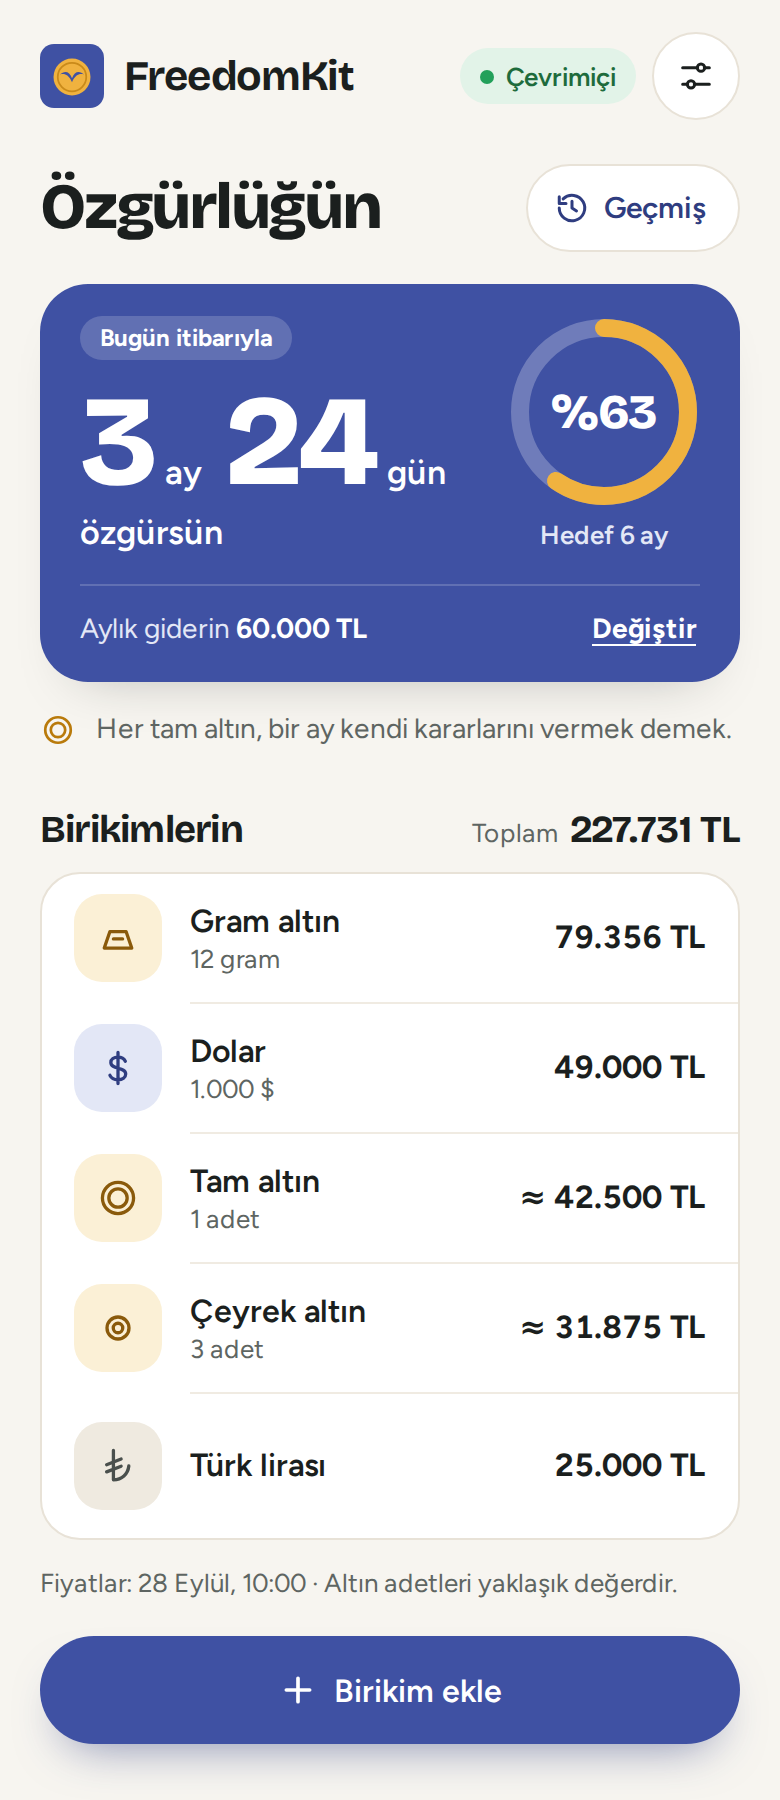
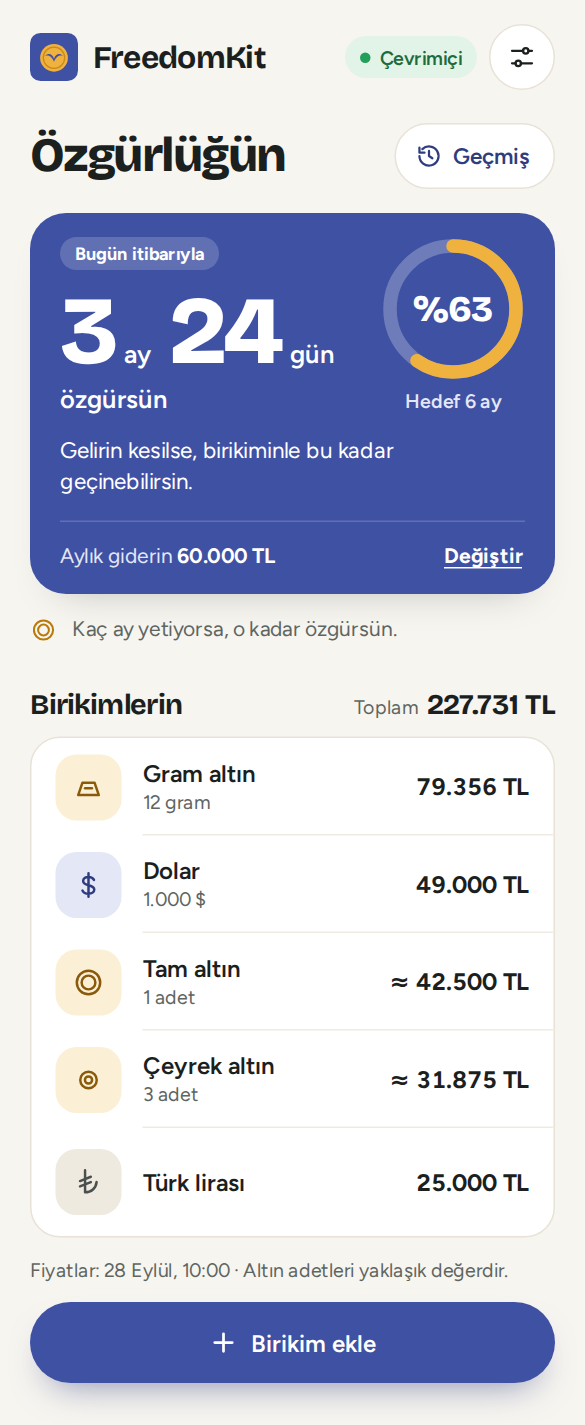
Say what FreedomKit does: how many months the savings last
Plan 08's texts: "Birikimin kaç ay yeter?" leads, and freedom is tied in once, "Kaç ay yetiyorsa, o kadar
özgürsün." The welcome gains a worked example (180.000 TL ÷ 45.000 TL = 4 ay) read aloud as one sum, the home
card says what its duration means, the goal asks "Birikimin kaç ay yetsin?", and the description in the manifest
and the page follows. The old second sentence promised a month per tam altın, untrue for a typed expense.

diff --git a/docs/design/freedomkit/html/05-ilk-acilis.html b/docs/design/freedomkit/html/05-ilk-acilis.html
@@ -1,0 +1,77 @@
+<!doctype html>
+<html lang="tr">
+<head>
+<meta charset="utf-8">
+<title>FreedomKit — İlk açılış</title>
+</head>
+<body>
+<x-dc>
+<helmet>
+<!-- Fontlar: Bricolage Grotesque + Figtree -->
+<style>
+body{margin:0;background:#F7F5F0}
+a{color:#2F3D80}a:hover{color:#3F51A3}
+</style>
+</helmet>
+<div style="width: 390px; height: 970px; box-sizing: border-box; position: relative; overflow: hidden; display: flex; flex-direction: column; background: #F7F5F0; color: #1B1F1E; font-family: 'Figtree', system-ui, sans-serif">
+
+<header style="padding: 14px 20px 0; height: 62px; box-sizing: border-box; display: flex; align-items: center; justify-content: space-between">
+<div style="display: flex; align-items: center; gap: 10px"><svg width="32" height="32" viewBox="0 0 512 512" aria-hidden="true"><rect width="512" height="512" rx="112" fill="#3F51A3"></rect><circle cx="256" cy="264" r="148" fill="#F0B23F"></circle><circle cx="256" cy="264" r="114" fill="none" stroke="#C98A1A" stroke-width="14"></circle><path d="M160 244C194 212 236 216 256 274C276 216 318 212 352 244C318 234 284 242 256 306C228 242 194 234 160 244Z" fill="#3F51A3"></path></svg><span style="font-family: 'Bricolage Grotesque', sans-serif; font-size: 21px; font-weight: 700; letter-spacing: -0.02em">FreedomKit</span></div>
+<button aria-label="Ayarlar" style="width: 44px; height: 44px; border-radius: 999px; border: 1px solid #E8E2D7; background: #FFFFFF; display: flex; align-items: center; justify-content: center; padding: 0; cursor: pointer"><svg width="20" height="20" viewBox="0 0 24 24" aria-hidden="true"><path d="M4 7h9M17 7h3M4 17h3M11 17h9" fill="none" stroke="#1B1F1E" stroke-width="1.8" stroke-linecap="round"></path><circle cx="15" cy="7" r="2.2" fill="none" stroke="#1B1F1E" stroke-width="1.8"></circle><circle cx="9" cy="17" r="2.2" fill="none" stroke="#1B1F1E" stroke-width="1.8"></circle></svg></button>
+</header>
+
+<h1 style="margin: 18px 20px 0; font-family: 'Bricolage Grotesque', sans-serif; font-size: 32px; line-height: 1.05; letter-spacing: -0.035em; font-weight: 800">Birikimin kaç ay yeter?</h1>
+<p style="margin: 12px 20px 0; font-size: 16px; line-height: 1.5">FreedomKit, gelirin kesilse birikiminle kaç ay geçinebileceğini gösterir: altınını, dövizini ve TL'ni güncel fiyatla toplar, aylık giderine böler.</p>
+
+<section aria-label="Örnek hesap" style="margin: 16px 20px 0; border-radius: 20px; border: 1px solid #E8E2D7; background: #FFFFFF; overflow: hidden">
+<div style="padding: 14px 16px 12px; display: flex; flex-direction: column; gap: 8px">
+<span style="font-size: 13px; font-weight: 700; color: #5E6562">Örnek</span>
+<div style="display: flex; align-items: baseline; justify-content: space-between; gap: 12px">
+<span style="font-size: 15px; color: #1B1F1E; font-weight: 500">Birikimin</span>
+<span style="font-family: 'Bricolage Grotesque', sans-serif; font-size: 19px; font-weight: 700; letter-spacing: -0.02em; color: #1B1F1E; font-variant-numeric: tabular-nums; white-space: nowrap">180.000 TL</span>
+</div>
+<div style="display: flex; align-items: baseline; justify-content: space-between; gap: 12px">
+<span style="font-size: 15px; color: #1B1F1E; font-weight: 500">Aylık giderin</span>
+<span style="font-family: 'Bricolage Grotesque', sans-serif; font-size: 19px; font-weight: 700; letter-spacing: -0.02em; color: #1B1F1E; font-variant-numeric: tabular-nums; white-space: nowrap">÷ 45.000 TL</span>
+</div>
+<div style="margin: 2px 0; border-top: 1.5px dashed #E8E2D7"></div>
+<div style="display: flex; align-items: baseline; justify-content: space-between; gap: 12px">
+<span style="font-size: 15px; color: #1B1F1E; font-weight: 700">Kaç ay yeter?</span>
+<span style="font-family: 'Bricolage Grotesque', sans-serif; font-size: 26px; font-weight: 800; letter-spacing: -0.02em; color: #2F3D80; font-variant-numeric: tabular-nums; white-space: nowrap">4 ay</span>
+</div>
+</div>
+<p style="margin: 0; padding: 12px 16px; background: #E3E7F6; color: #2F3D80; font-size: 15px; font-weight: 600; display: flex; align-items: center; gap: 10px"><svg style="flex-shrink: 0" width="18" height="18" viewBox="0 0 24 24" aria-hidden="true"><circle cx="12" cy="12" r="8.5" fill="none" stroke="#B97A0B" stroke-width="1.8"></circle><circle cx="12" cy="12" r="4.8" fill="none" stroke="#B97A0B" stroke-width="1.8"></circle></svg>Kaç ay yetiyorsa, o kadar özgürsün.</p>
+</section>
+<p style="margin: 12px 20px 0; font-size: 15px; line-height: 1.5; color: #5E6562">Tutarların bu cihazdan hiçbir yere gitmez.</p>
+
+<fieldset style="margin: 26px 20px 0; padding: 0; border: 0; display: flex; flex-direction: column; gap: 10px; min-width: 0">
+<legend style="padding: 0; margin: 0 0 10px; font-family: 'Bricolage Grotesque', sans-serif; font-size: 19px; font-weight: 700; letter-spacing: -0.02em">Aylık giderin</legend>
+<div style="padding: 14px; border-radius: 16px; border: 2px solid #3F51A3; background: #E3E7F6; display: flex; flex-direction: column; gap: 12px">
+<label style="display: flex; align-items: center; gap: 12px; cursor: pointer">
+<input type="radio" name="gider-turu" checked="" style="margin: 0; width: 22px; height: 22px; accent-color: #3F51A3; flex-shrink: 0">
+<span style="font-size: 16px; font-weight: 700">Kendi rakamım</span>
+</label>
+<div style="margin-left: 34px; display: flex; flex-direction: column; gap: 8px">
+<label for="gider-tutar" style="position: absolute; width: 1px; height: 1px; overflow: hidden; clip: rect(0 0 0 0)">Aylık gider, TL</label>
+<div style="height: 52px; box-sizing: border-box; padding: 0 14px; border-radius: 14px; border: 1px solid #948C80; background: #FFFFFF; display: flex; align-items: center; gap: 8px">
+<input id="gider-tutar" type="text" inputmode="numeric" value="" aria-describedby="gider-ipucu" style="flex-grow: 1; min-width: 0; height: 48px; padding: 0; border: 0; background: transparent; font-family: 'Bricolage Grotesque', sans-serif; font-size: 22px; font-weight: 700; letter-spacing: -0.01em; color: #1B1F1E; outline: none">
+<span style="font-size: 16px; font-weight: 600; color: #5E6562">TL</span>
+</div>
+<span id="gider-ipucu" style="font-size: 13px; line-height: 1.45; color: #3F4542">Kira, fatura, market… bir ayda harcadığın toplam.</span>
+</div>
+</div>
+<label style="padding: 14px; border-radius: 16px; border: 1px solid #E8E2D7; background: #FFFFFF; display: flex; align-items: flex-start; gap: 12px; cursor: pointer">
+<input type="radio" name="gider-turu" style="margin: 0; width: 22px; height: 22px; accent-color: #3F51A3; flex-shrink: 0">
+<span style="display: flex; flex-direction: column; gap: 4px"><span style="font-size: 16px; font-weight: 700">1 ay = 1 tam altın</span><span style="font-size: 13px; line-height: 1.45; color: #5E6562">Giderini bilmiyorsan: bir ay, bir tam altının bugünkü değeri kadar sayılır (≈ 42.500 TL).</span></span>
+</label>
+</fieldset>
+
+<p style="margin: 18px 20px 0; display: flex; align-items: center; gap: 10px; font-size: 14px; color: #5E6562"><svg style="flex-shrink: 0" width="18" height="18" viewBox="0 0 24 24" aria-hidden="true"><circle cx="12" cy="12" r="8.5" fill="none" stroke="#5E6562" stroke-width="1.8"></circle><path d="M12 11v5.5" fill="none" stroke="#5E6562" stroke-width="1.8" stroke-linecap="round"></path><circle cx="12" cy="7.8" r="1.1" fill="#5E6562"></circle></svg>Yatırım tavsiyesi değildir.</p>
+<a href="#" style="margin: 14px 0 0; align-self: center; min-height: 44px; display: inline-flex; align-items: center; padding: 0 8px; color: #2F3D80; font-size: 15px; font-weight: 600; text-decoration: underline; text-underline-offset: 3px">Yedeğin var mı? Geri yükle</a>
+
+<a href="02-ana-ekran.html" style="position: absolute; left: 20px; right: 20px; bottom: 28px; height: 54px; border-radius: 999px; background: #3F51A3; color: #FFFFFF; text-decoration: none; display: flex; align-items: center; justify-content: center; font-size: 16px; font-weight: 600; box-shadow: 0 12px 24px -12px rgba(47, 61, 128, 0.6)">Başla</a>
+
+</div>
+</x-dc>
+</body>
+</html>

diff --git a/docs/design/freedomkit/html/01-ana-ekran.html b/docs/design/freedomkit/html/01-ana-ekran.html
@@ -2,7 +2,7 @@
 <html lang="tr">
 <head>
 <meta charset="utf-8">
-<title>FreedomKit — Ana ekran</title>
+<title>FreedomKit — Ana ekran, yeni anlatım</title>
 </head>
 <body>
 <x-dc>
@@ -13,7 +13,7 @@ body{margin:0;background:#F7F5F0}
 a{color:#2F3D80}a:hover{color:#3F51A3}
 </style>
 </helmet>
-<div style="width: 390px; height: 900px; box-sizing: border-box; position: relative; overflow: hidden; display: flex; flex-direction: column; background: #F7F5F0; color: #1B1F1E; font-family: 'Figtree', system-ui, sans-serif">
+<div style="width: 390px; height: 950px; box-sizing: border-box; position: relative; overflow: hidden; display: flex; flex-direction: column; background: #F7F5F0; color: #1B1F1E; font-family: 'Figtree', system-ui, sans-serif">
 
 <header style="padding: 14px 20px 0; height: 62px; box-sizing: border-box; display: flex; align-items: center; justify-content: space-between">
 <div style="display: flex; align-items: center; gap: 10px">
@@ -28,7 +28,7 @@ a{color:#2F3D80}a:hover{color:#3F51A3}
 
 <div style="padding: 20px 20px 16px; display: flex; align-items: center; justify-content: space-between; gap: 12px">
 <h1 style="margin: 0; font-family: 'Bricolage Grotesque', sans-serif; font-size: 32px; line-height: 1.05; letter-spacing: -0.035em; font-weight: 800">Özgürlüğün</h1>
-<a href="04-gecmis.html" style="height: 44px; box-sizing: border-box; padding: 0 16px 0 13px; border-radius: 999px; border: 1px solid #E8E2D7; background: #FFFFFF; color: #2F3D80; text-decoration: none; font-size: 15px; font-weight: 600; display: flex; align-items: center; gap: 7px; flex-shrink: 0"><svg width="18" height="18" viewBox="0 0 24 24" aria-hidden="true"><path d="M3.5 12a8.5 8.5 0 1 0 2.6-6.1M3.5 4.5V9h4.5" fill="none" stroke="#2F3D80" stroke-width="2" stroke-linecap="round" stroke-linejoin="round"></path><path d="M12 7.5V12l3 2" fill="none" stroke="#2F3D80" stroke-width="2" stroke-linecap="round" stroke-linejoin="round"></path></svg>Geçmiş</a>
+<a href="#" style="height: 44px; box-sizing: border-box; padding: 0 16px 0 13px; border-radius: 999px; border: 1px solid #E8E2D7; background: #FFFFFF; color: #2F3D80; text-decoration: none; font-size: 15px; font-weight: 600; display: flex; align-items: center; gap: 7px; flex-shrink: 0"><svg width="18" height="18" viewBox="0 0 24 24" aria-hidden="true"><path d="M3.5 12a8.5 8.5 0 1 0 2.6-6.1M3.5 4.5V9h4.5" fill="none" stroke="#2F3D80" stroke-width="2" stroke-linecap="round" stroke-linejoin="round"></path><path d="M12 7.5V12l3 2" fill="none" stroke="#2F3D80" stroke-width="2" stroke-linecap="round" stroke-linejoin="round"></path></svg>Geçmiş</a>
 </div>
 
 <section aria-label="Özgürlük süren" style="margin: 0 20px; border-radius: 24px; background: #3F51A3; color: #FFFFFF; padding: 16px 20px 4px; display: flex; flex-direction: column; box-shadow: 0 14px 28px -20px rgba(27, 31, 30, 0.35)">
@@ -53,13 +53,14 @@ a{color:#2F3D80}a:hover{color:#3F51A3}
 <span style="font-size: 13px; font-weight: 600; color: #E3E7F6">Hedef 6 ay</span>
 </div>
 </div>
-<div style="margin-top: 16px; border-top: 1px solid rgba(255, 255, 255, 0.18); display: flex; align-items: center; justify-content: space-between; gap: 12px">
+<p style="margin: 14px 0 0; font-size: 15px; line-height: 1.45; color: #FFFFFF">Gelirin kesilse, birikiminle bu kadar geçinebilirsin.</p>
+<div style="margin-top: 14px; border-top: 1px solid rgba(255, 255, 255, 0.18); display: flex; align-items: center; justify-content: space-between; gap: 12px">
 <span style="font-size: 14px; color: #E3E7F6">Aylık giderin <strong style="color: #FFFFFF; font-weight: 700">60.000 TL</strong></span>
 <a href="03-gider-ve-hedef.html" style="min-height: 44px; padding: 0 2px; display: inline-flex; align-items: center; color: #FFFFFF; font-size: 14px; font-weight: 700; text-decoration: underline; text-underline-offset: 3px">Değiştir</a>
 </div>
 </section>
 
-<p style="margin: 14px 20px 0; display: flex; align-items: flex-start; gap: 10px; font-size: 14px; line-height: 1.45; color: #5E6562"><svg style="margin-top: 1px; flex-shrink: 0" width="18" height="18" viewBox="0 0 24 24" aria-hidden="true"><circle cx="12" cy="12" r="8.5" fill="none" stroke="#B97A0B" stroke-width="1.8"></circle><circle cx="12" cy="12" r="4.8" fill="none" stroke="#B97A0B" stroke-width="1.8"></circle></svg>Her tam altın, bir ay kendi kararlarını vermek demek.</p>
+<p style="margin: 14px 20px 0; display: flex; align-items: flex-start; gap: 10px; font-size: 14px; line-height: 1.45; color: #5E6562"><svg style="margin-top: 1px; flex-shrink: 0" width="18" height="18" viewBox="0 0 24 24" aria-hidden="true"><circle cx="12" cy="12" r="8.5" fill="none" stroke="#B97A0B" stroke-width="1.8"></circle><circle cx="12" cy="12" r="4.8" fill="none" stroke="#B97A0B" stroke-width="1.8"></circle></svg>Kaç ay yetiyorsa, o kadar özgürsün.</p>
 
 <div style="padding: 28px 20px 10px; display: flex; align-items: baseline; justify-content: space-between; gap: 12px">
 <h2 style="margin: 0; font-family: 'Bricolage Grotesque', sans-serif; font-size: 19px; font-weight: 700; letter-spacing: -0.02em">Birikimlerin</h2>
@@ -104,7 +105,7 @@ a{color:#2F3D80}a:hover{color:#3F51A3}
 </ul>
 <p style="margin: 12px 20px 0; font-size: 13px; line-height: 1.5; color: #5E6562">Fiyatlar: 28 Eylül, 10:00 · Altın adetleri yaklaşık değerdir.</p>
 
-<a href="02-birikim-ekle.html" style="position: absolute; left: 20px; right: 20px; bottom: 28px; height: 54px; border-radius: 999px; background: #3F51A3; color: #FFFFFF; text-decoration: none; display: flex; align-items: center; justify-content: center; gap: 8px; font-size: 16px; font-weight: 600; box-shadow: 0 12px 24px -12px rgba(47, 61, 128, 0.6)"><svg width="20" height="20" viewBox="0 0 24 24" aria-hidden="true"><path d="M12 5v14M5 12h14" fill="none" stroke="#FFFFFF" stroke-width="2.2" stroke-linecap="round"></path></svg>Birikim ekle</a>
+<a href="#" style="position: absolute; left: 20px; right: 20px; bottom: 28px; height: 54px; border-radius: 999px; background: #3F51A3; color: #FFFFFF; text-decoration: none; display: flex; align-items: center; justify-content: center; gap: 8px; font-size: 16px; font-weight: 600; box-shadow: 0 12px 24px -12px rgba(47, 61, 128, 0.6)"><svg width="20" height="20" viewBox="0 0 24 24" aria-hidden="true"><path d="M12 5v14M5 12h14" fill="none" stroke="#FFFFFF" stroke-width="2.2" stroke-linecap="round"></path></svg>Birikim ekle</a>
 
 </div>
 </x-dc>

diff --git a/docs/design/freedomkit/html/03-gider-ve-hedef.html b/docs/design/freedomkit/html/03-gider-ve-hedef.html
@@ -2,7 +2,7 @@
 <html lang="tr">
 <head>
 <meta charset="utf-8">
-<title>FreedomKit — Gider ve hedef</title>
+<title>FreedomKit — Gider ve hedef, yeni anlatım</title>
 </head>
 <body>
 <x-dc>
@@ -16,7 +16,7 @@ a{color:#2F3D80}a:hover{color:#3F51A3}
 <div style="width: 390px; height: 844px; box-sizing: border-box; position: relative; overflow: hidden; display: flex; flex-direction: column; background: #F7F5F0; color: #1B1F1E; font-family: 'Figtree', system-ui, sans-serif">
 
 <header style="padding: 12px 20px 0; height: 60px; box-sizing: border-box; display: flex; align-items: center">
-<a href="01-ana-ekran.html" aria-label="Geri" style="width: 44px; height: 44px; box-sizing: border-box; border-radius: 999px; border: 1px solid #E8E2D7; background: #FFFFFF; display: flex; align-items: center; justify-content: center"><svg width="20" height="20" viewBox="0 0 24 24" aria-hidden="true"><path d="M15 18l-6-6 6-6" fill="none" stroke="#1B1F1E" stroke-width="2" stroke-linecap="round" stroke-linejoin="round"></path></svg></a>
+<a href="02-ana-ekran.html" aria-label="Geri" style="width: 44px; height: 44px; box-sizing: border-box; border-radius: 999px; border: 1px solid #E8E2D7; background: #FFFFFF; display: flex; align-items: center; justify-content: center"><svg width="20" height="20" viewBox="0 0 24 24" aria-hidden="true"><path d="M15 18l-6-6 6-6" fill="none" stroke="#1B1F1E" stroke-width="2" stroke-linecap="round" stroke-linejoin="round"></path></svg></a>
 </header>
 
 <h1 style="margin: 12px 20px 0; font-family: 'Bricolage Grotesque', sans-serif; font-size: 30px; line-height: 1.05; letter-spacing: -0.035em; font-weight: 800">Gider ve hedef</h1>
@@ -61,7 +61,7 @@ a{color:#2F3D80}a:hover{color:#3F51A3}
 </span>
 <button aria-label="Artır" style="width: 44px; height: 44px; border-radius: 999px; border: 1px solid #E8E2D7; background: #FFFFFF; display: flex; align-items: center; justify-content: center; padding: 0; cursor: pointer"><svg width="18" height="18" viewBox="0 0 24 24" aria-hidden="true"><path d="M12 5v14M5 12h14" fill="none" stroke="#1B1F1E" stroke-width="2.2" stroke-linecap="round"></path></svg></button>
 </div>
-<label for="hedef" style="font-size: 14px; color: #5E6562">Kaç ay özgür olmak istiyorsun?</label>
+<label for="hedef" style="font-size: 14px; color: #5E6562">Birikimin kaç ay yetsin?</label>
 </div>
 
 <p style="margin: 24px 20px 0; display: flex; align-items: flex-start; gap: 10px; font-size: 13px; line-height: 1.5; color: #5E6562"><svg style="margin-top: 1px; flex-shrink: 0" width="18" height="18" viewBox="0 0 24 24" aria-hidden="true"><circle cx="12" cy="12" r="8.5" fill="none" stroke="#5E6562" stroke-width="1.8"></circle><path d="M12 11v5.5" fill="none" stroke="#5E6562" stroke-width="1.8" stroke-linecap="round"></path><circle cx="12" cy="7.8" r="1.1" fill="#5E6562"></circle></svg>FreedomKit yatırım tavsiyesi vermez; neyle biriktireceğine sen karar verirsin. Sadece birikimini aya çevirir.</p>

diff --git a/src/screens/WelcomeScreen.tsx b/src/screens/WelcomeScreen.tsx
@@ -14,7 +14,7 @@ import { goldOptionText } from '../money/texts.ts'
 import type { Expense } from '../money/types.ts'
 import { ExpenseChoice } from '../ui/choices.tsx'
 import fields from '../ui/fields.module.css'
-import { InfoIcon } from '../ui/icons.tsx'
+import { InfoIcon, RingsIcon } from '../ui/icons.tsx'
 import home from './HomeScreen.module.css'
 import styles from './WelcomeScreen.module.css'
 
@@ -38,7 +38,7 @@ export default function WelcomeScreen() {
 
   return (
     <Screen
-      title="Birikimin kaç ay özgürlük ediyor?"
+      title="Birikimin kaç ay yeter?"
       icon={
         <span className={home.brand}>
           <img src={`${import.meta.env.BASE_URL}favicon.svg`} alt="" width={32} height={32} />
@@ -58,7 +58,38 @@ export default function WelcomeScreen() {
     >
       <div className={fields.form}>
         <div className={styles.intro}>
-          <p>Birikimlerini ekle, aylık giderini yaz; FreedomKit sana kaç ay kendi kararlarını verebileceğini göstersin.</p>
+          <p>
+            FreedomKit, gelirin kesilse birikiminle kaç ay geçinebileceğini gösterir: altınını, dövizini ve TL'ni güncel
+            fiyatla toplar, aylık giderine böler.
+          </p>
+          <section className={styles.example} aria-label="Örnek hesap">
+            <div className={styles.exampleBody}>
+              {/* The section's own label already says it; read aloud it would be said twice. */}
+              <span className={styles.exampleTitle} aria-hidden="true">
+                Örnek
+              </span>
+              <dl className={styles.exampleRows}>
+                <div className={styles.exampleRow}>
+                  <dt>Birikimin</dt>
+                  <dd>180.000 TL</dd>
+                </div>
+                <div className={styles.exampleRow}>
+                  <dt>Aylık giderin</dt>
+                  <dd>
+                    <span aria-hidden="true">÷ </span>45.000 TL
+                  </dd>
+                </div>
+                <div className={`${styles.exampleRow} ${styles.exampleResult}`}>
+                  <dt>Kaç ay yeter?</dt>
+                  <dd>4 ay</dd>
+                </div>
+              </dl>
+            </div>
+            <p className={styles.exampleBand}>
+              <RingsIcon />
+              Kaç ay yetiyorsa, o kadar özgürsün.
+            </p>
+          </section>
           <p className={styles.quiet}>Tutarların bu cihazdan hiçbir yere gitmez.</p>
         </div>
         <ExpenseChoice

diff --git a/src/screens/WelcomeScreen.module.css b/src/screens/WelcomeScreen.module.css
@@ -37,3 +37,88 @@
   text-underline-offset: 3px;
   cursor: pointer;
 }
+
+/* A worked example: with the intro's 8 px gap it sits 16 px under the text and 12 px over the next line. */
+.example {
+  overflow: hidden;
+  margin: 8px 0 4px;
+  border: 1px solid var(--color-border);
+  border-radius: 20px;
+  background: var(--color-surface);
+  line-height: normal;
+}
+
+.exampleBody {
+  display: flex;
+  flex-direction: column;
+  gap: 8px;
+  padding: 14px 16px 12px;
+}
+
+.exampleTitle {
+  font-size: 0.8125rem;
+  font-weight: 700;
+  color: var(--color-muted);
+}
+
+.exampleRows {
+  display: flex;
+  flex-direction: column;
+  gap: 8px;
+  margin: 0;
+}
+
+.exampleRow {
+  display: flex;
+  align-items: baseline;
+  justify-content: space-between;
+  gap: 12px;
+}
+
+.exampleRow dt {
+  font-size: 0.9375rem;
+  font-weight: 500;
+  color: var(--color-text);
+}
+
+.exampleRow dd {
+  margin: 0;
+  font-family: var(--font-display);
+  font-size: 1.1875rem;
+  font-weight: 700;
+  letter-spacing: -0.02em;
+  font-variant-numeric: tabular-nums;
+  white-space: nowrap;
+}
+
+.exampleResult {
+  margin-top: 2px;
+  padding-top: 10px;
+  border-top: 1.5px dashed var(--color-border);
+}
+
+.exampleResult dt {
+  font-weight: 700;
+}
+
+.exampleResult dd {
+  font-size: 1.625rem;
+  font-weight: 800;
+  color: var(--color-primary-dark);
+}
+
+.exampleBand {
+  display: flex;
+  align-items: center;
+  gap: 10px;
+  padding: 12px 16px;
+  background: var(--color-primary-soft);
+  color: var(--color-primary-dark);
+  font-size: 0.9375rem;
+  font-weight: 600;
+}
+
+.exampleBand svg {
+  flex: none;
+  color: var(--color-amber-strong);
+}

diff --git a/src/screens/HomeScreen.tsx b/src/screens/HomeScreen.tsx
@@ -30,7 +30,7 @@ import PricesSheet from './PricesSheet.tsx'
 import WelcomeScreen from './WelcomeScreen.tsx'
 
 const STATES: Record<Exclude<Freedom['state'], 'free'>, { title: string; line: string }> = {
-  empty: { title: 'Henüz birikim yok', line: 'İlk birikimini ekle; kaç ay özgür olduğunu hemen hesaplayalım.' },
+  empty: { title: 'Henüz birikim yok', line: 'İlk birikimini ekle; kaç ay geçinebileceğini hemen hesaplayalım.' },
   none: { title: 'Şu an birikimin yok', line: 'Yeni bir birikim ekleyince süre yeniden hesaplanır.' },
   priceless: { title: 'Fiyatlar alınamadı', line: 'İnternete bağlanınca hesaplanır. İstersen fiyatları elle de girebilirsin.' },
 }
@@ -87,6 +87,7 @@ function FreedomCard({ card, settings, tamValue, onPrices }: { card: Freedom; se
           <span className={styles.goalText}>Hedef {settings.goalMonths} ay</span>
         </div>
       </div>
+      {card.state === 'free' && <p className={styles.explain}>Gelirin kesilse, birikiminle bu kadar geçinebilirsin.</p>}
       <div className={styles.cardBottom}>
         <span className={styles.expense}>
           Aylık giderin <strong>{expenseText(settings, tamValue)}</strong>

diff --git a/src/money/motivation.ts b/src/money/motivation.ts
@@ -7,8 +7,8 @@ const REMIND_AFTER_DAYS = 180
 
 /** Our own lines; nobody famous is quoted (plan 5.3). */
 export const FIXED_SENTENCES = [
-  'Paran varsa korkmazsın.',
-  'Her tam altın, bir ay kendi kararlarını vermek demek.',
+  'Kaç ay yetiyorsa, o kadar özgürsün.',
+  'Kenara koyduğun her altın, sana biraz daha zaman kazandırır.',
   'Küçük birikimler, büyük kararlar için zaman kazandırır.',
   'Özgürlük bir günde gelmez; gün gün birikir.',
   'Bugün kenara koyduğun, yarın sana zaman olarak döner.',

diff --git a/src/screens/GoalScreen.tsx b/src/screens/GoalScreen.tsx
@@ -73,7 +73,7 @@ export default function GoalScreen() {
           <h2 id="goal-title" className={text.sectionTitle}>
             Hedefin
           </h2>
-          <CountField label="Kaç ay özgür olmak istiyorsun?" value={goal} min={GOAL_LIMITS.min} max={GOAL_LIMITS.max} onChange={setGoal} unit="ay" centered />
+          <CountField label="Birikimin kaç ay yetsin?" value={goal} min={GOAL_LIMITS.min} max={GOAL_LIMITS.max} onChange={setGoal} unit="ay" centered />
         </section>
 
         <p className={styles.info}>

diff --git a/src/screens/HomeScreen.module.css b/src/screens/HomeScreen.module.css
@@ -144,12 +144,20 @@
   color: var(--kit-card-quiet);
 }
 
+/* Across the whole card, under the duration and the ring. */
+.explain {
+  margin-top: 14px;
+  font-size: 0.9375rem;
+  line-height: 1.45;
+  color: var(--kit-card-text);
+}
+
 .cardBottom {
   display: flex;
   align-items: center;
   justify-content: space-between;
   gap: 12px;
-  margin-top: 16px;
+  margin-top: 14px;
   border-top: 1px solid rgb(255 255 255 / 0.18);
 }
 

diff --git a/README.md b/README.md
@@ -8,7 +8,7 @@ FreedomKit gives no investment advice.
 Built from [kit-template](https://github.com/TolgaSenerHollyPalm/kit-template) on
 [kitshelf-ui](https://github.com/TolgaSenerHollyPalm/kitshelf-ui), which brings the theme, the components and the
 backups. The designs are in `docs/design/freedomkit/`; the plan it is built from is `docs/plans/04-freedomkit/PLAN.md`
-in the quiz-trip repository.
+in the quiz-trip repository, and its texts were renewed with `docs/plans/08-freedomkit-anlatim/PLAN.md` there.
 
 ## Development
 
